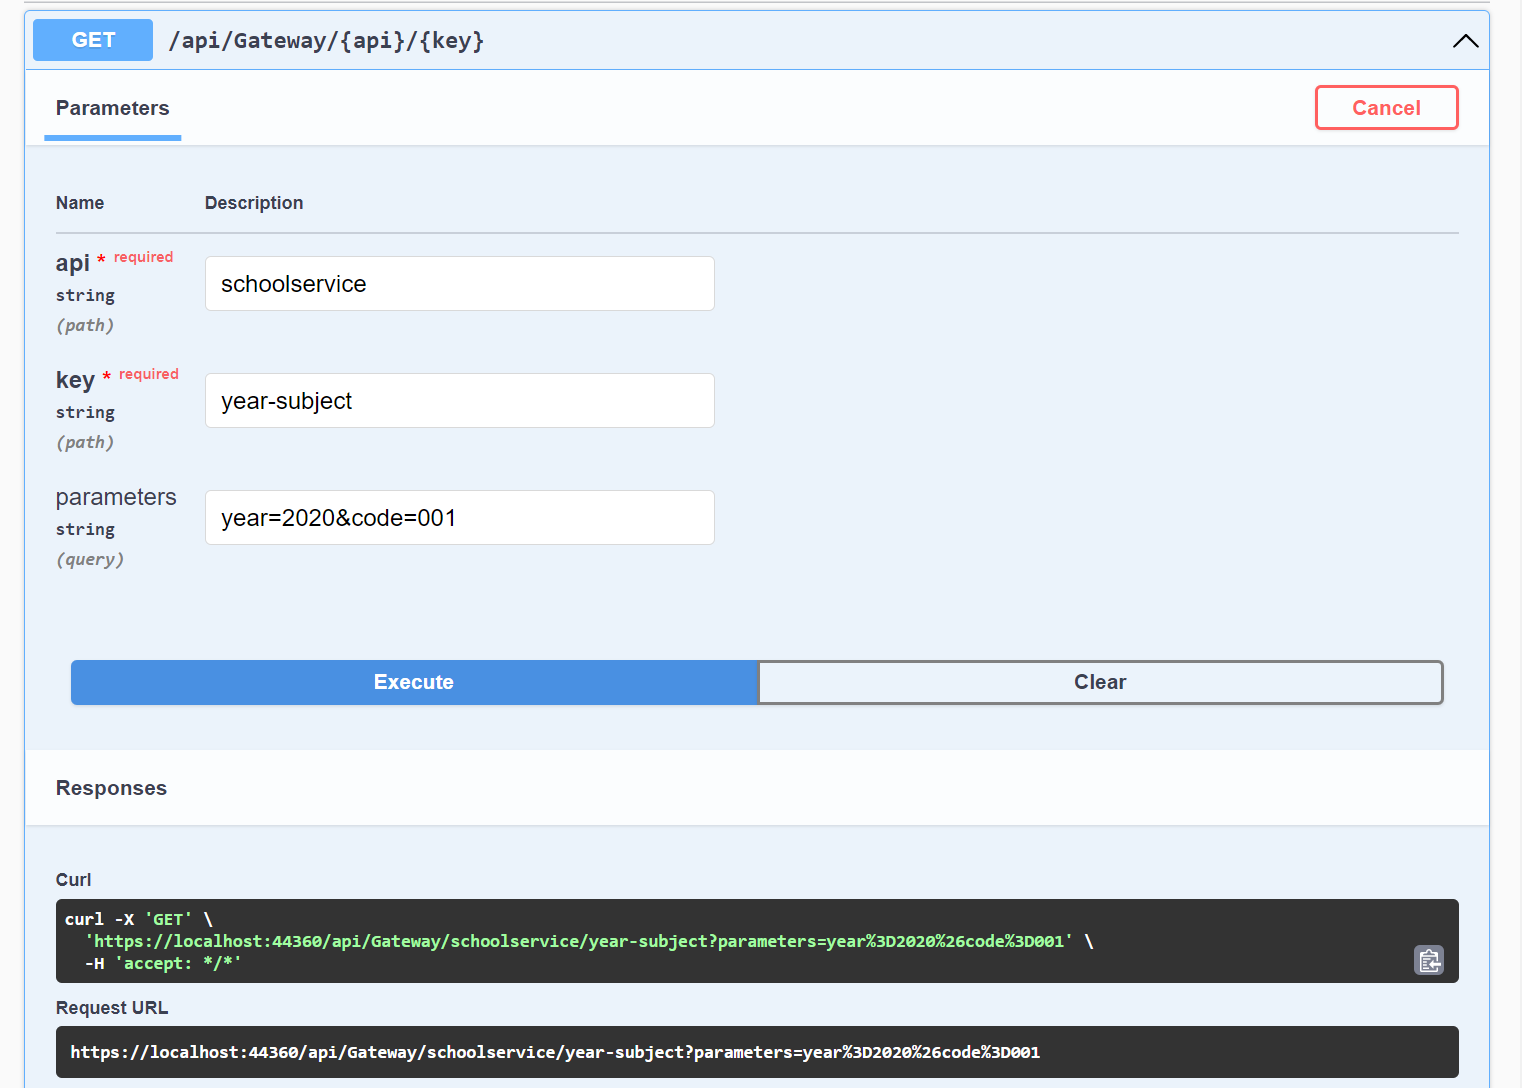
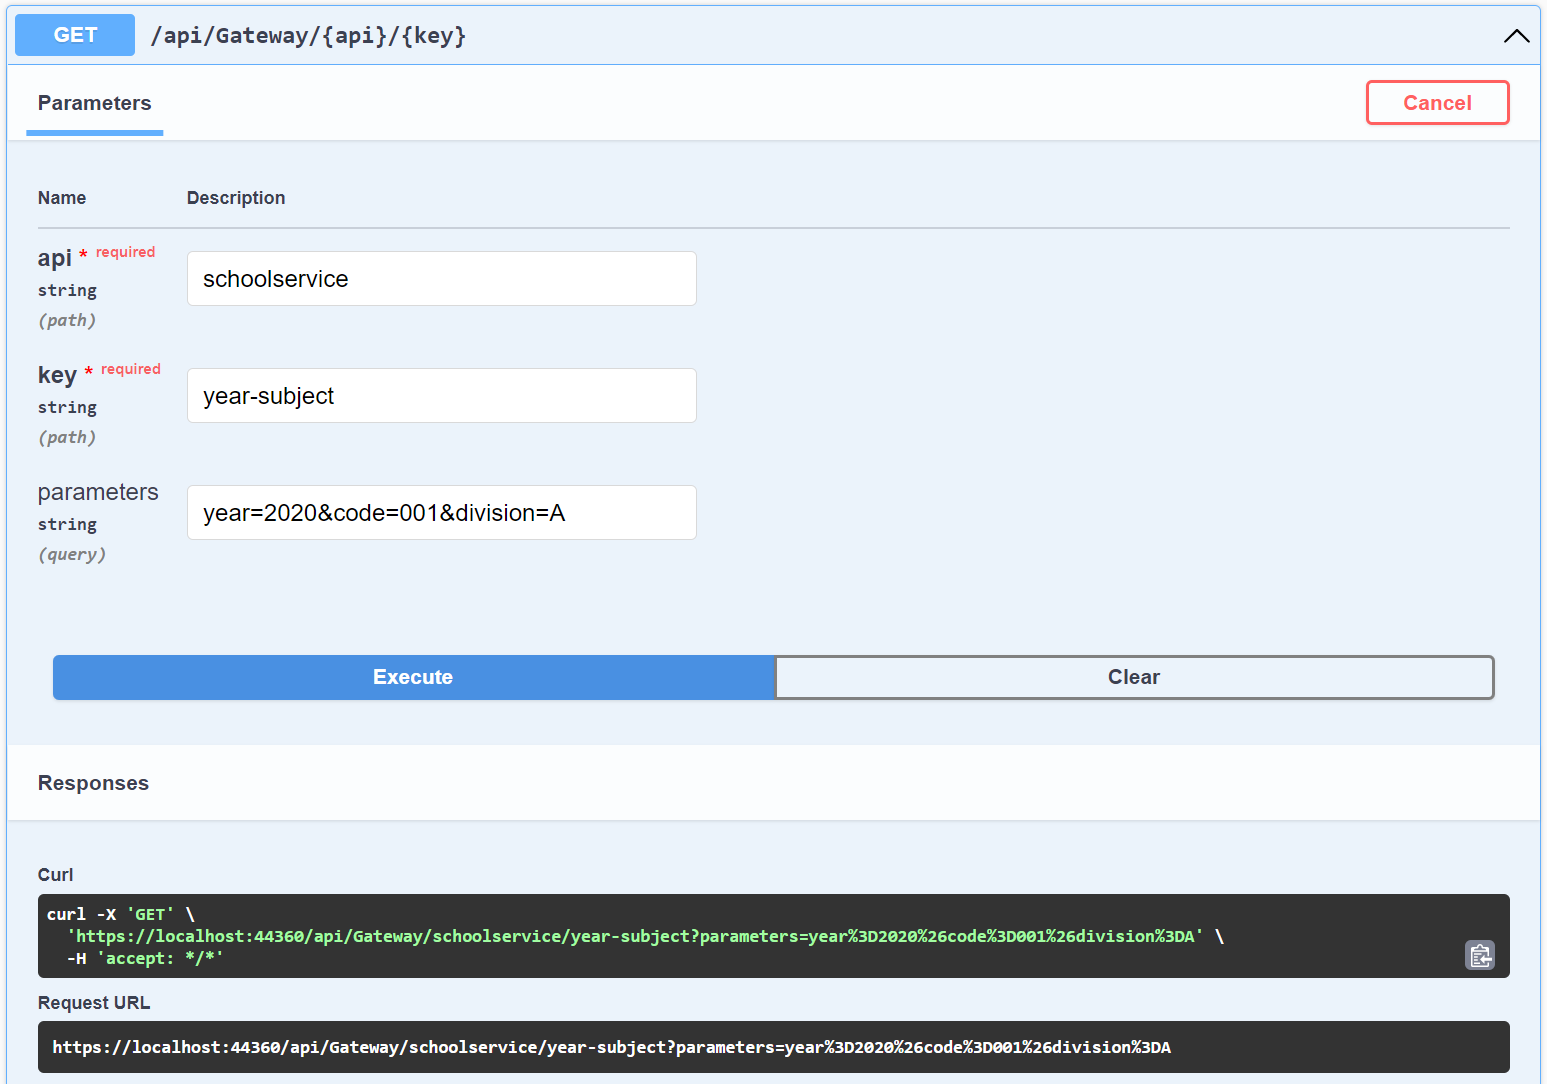
updated verbs readme with new routing info.

diff --git a/Docs/README_VERBS.md b/Docs/README_VERBS.md
@@ -14,7 +14,7 @@ You can specify your entire route in the **parameters** query string param.
 
 eg. you may want to hit
 
-GET http://localhost:63990/student/{year}/subject/{code} 
+GET http://localhost:63990/student/{year}/subject/{code}?division={division}
 
 route on the back end API.
 
@@ -35,12 +35,16 @@ You will set up the **Orchestration** as
 
 ```C#
     orchestrator.AddApi("schoolservice", "http://localhost:63990/")
-                        .AddRoute("year-subject", GatewayVerb.GET, new RouteInfo { Path = "student/{year}/subject/{code}", WithParams = true })
+                        .AddRoute("year-subject", GatewayVerb.GET, new RouteInfo { Path = "student/{year}/subject/{code}?division={division}", WithParams = true })
 ```
 
 And call the GET endpoint as
 
 ![API Gateway Swagger](/Docs/GETWithParams2.PNG)
+
+Any param in the Path (eg. {year}) will be substituted by what is passed in the Parameters field in the request.
+
+So, the Path would become ```student/2020/subject/001?division=A```.
 
 ### POST
 
